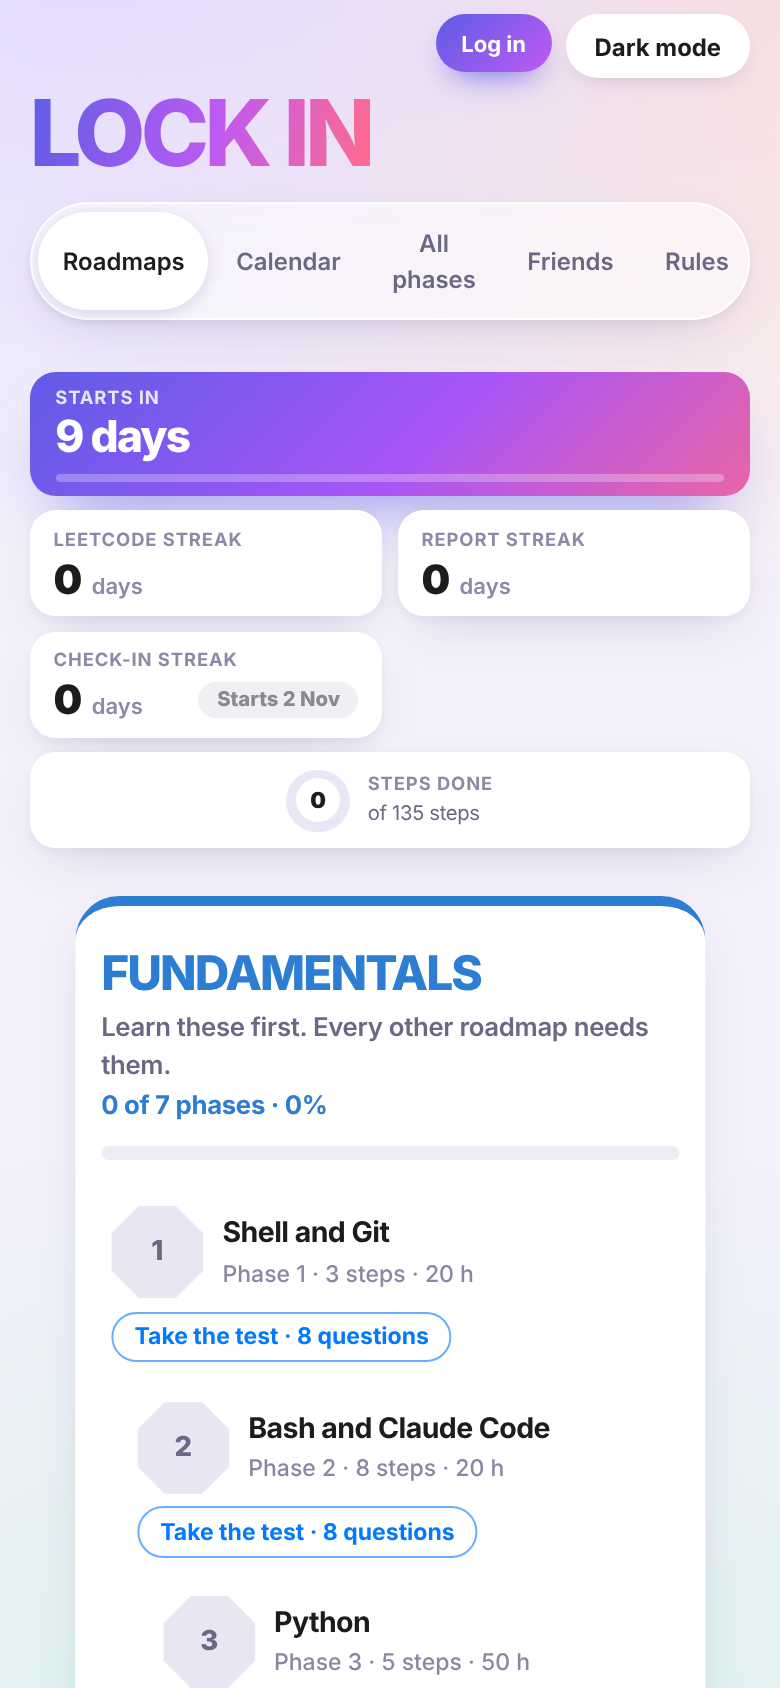
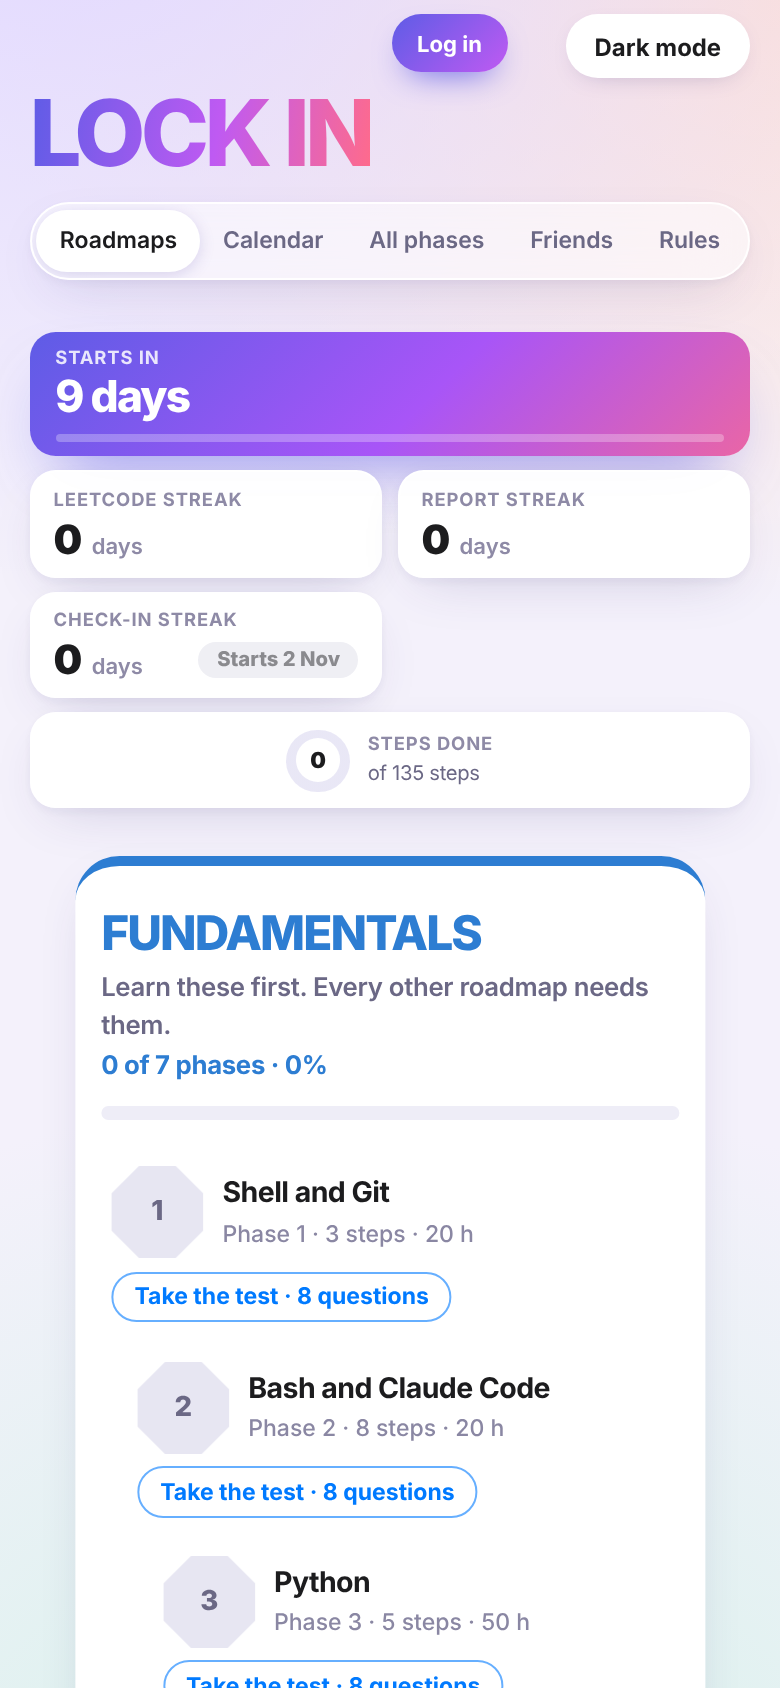
Fix overlapping header buttons and tabs on iPhone
Claude-Session: https://claude.ai/code/session_01YT8tpFMiqhs3MS2afSasex

Changed region(s): [[0.0308, 0.1232, 0.9846, 1.0], [0.4923, 0.0, 0.7077, 0.0616]]

diff --git a/index.html b/index.html
@@ -533,6 +533,13 @@ header.top{padding-bottom:26px}
 header.top{display:flex;flex-wrap:wrap;align-items:center;gap:14px 56px}
 header.top .tabs{margin:0}
 @media (max-width:699px){header.top{gap:12px 20px}}
+@media (max-width:520px){
+.acctbtn{right:132px!important;max-width:calc(100vw - 190px)}
+.themebtn{right:0!important}
+header.top .tabs{width:100%;max-width:100%;display:flex;gap:0;padding:3px;overflow-x:auto;scrollbar-width:none}
+header.top .tabs::-webkit-scrollbar{display:none}
+header.top .tabs button{flex:1 0 auto;padding:8px 11px;font-size:12.5px;white-space:nowrap}
+}
 header.top .bento,header.top #syncst{flex:0 0 100%;width:100%}
 
 /* Compact top tiles */
